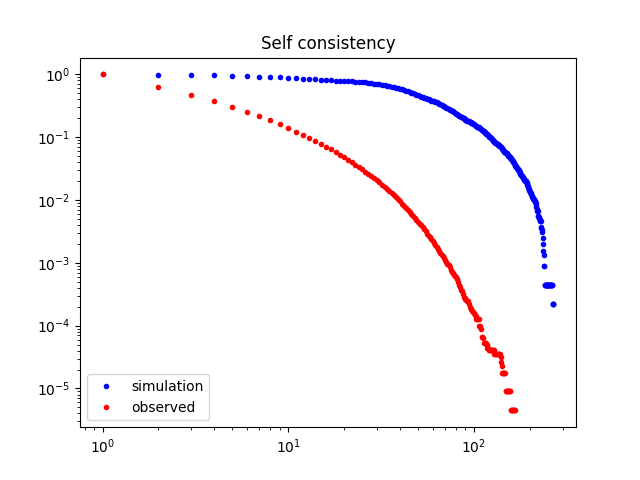
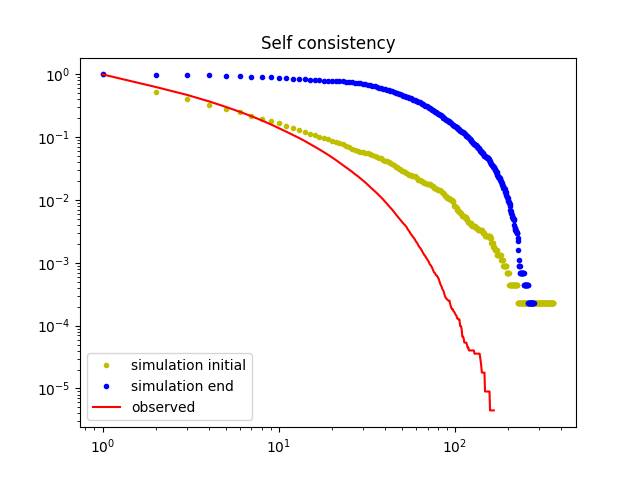
Init repo for sim on 47

diff --git a/self_consistency.py b/self_consistency.py
@@ -156,7 +156,11 @@ def self_consistency(simulation_name, parameters, data_path):
                 num_overflow += 1
                 cluster = choice(samples)
 
+            # ito sense
             updated_cluster = cluster + f(cluster) * dt + g(cluster) * sqrt_dt * noise
+
+            # difference equation
+            # updated_cluster = cluster + f(cluster) + g(cluster) * noise
 
             if updated_cluster < 1:
                 updated_cluster = choice(samples)
@@ -170,12 +174,14 @@ def self_consistency(simulation_name, parameters, data_path):
 
     # plot simulation data
     sim_sizes, sim_icdf = get_icdf(clusters_pool)
+    init_sizes, init_icdf = get_icdf(samples)
     obs_sizes, obs_icdf = get_icdf(observed_clusters)
 
     plt.figure()
     plt.title("Self consistency")
-    plt.loglog(sim_sizes, sim_icdf, 'b.', label="simulation")
-    plt.loglog(obs_sizes, obs_icdf, 'r.', label="observed")
+    plt.loglog(init_sizes, init_icdf, 'y.', label="simulation initial")
+    plt.loglog(sim_sizes, sim_icdf, 'b.', label="simulation end")
+    plt.loglog(obs_sizes, obs_icdf, 'r-', label="observed")
     plt.legend()
     plt.savefig(data_path + file_root + "sc.png")
     plt.show()

diff --git a/scanlon.c b/scanlon.c
@@ -68,7 +68,7 @@ int main(int argc, char *argv[]) {
     char file_root[200];
     strcpy(file_root, argv[3]);
 
-    int radius = 4;
+    int radius = 2;
     int immediacy = 24;
     float carrying_capacity = get_forest_cover(rainfall);
 
